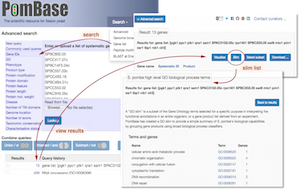
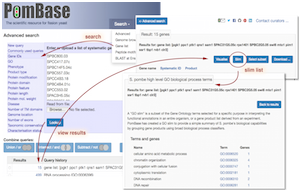
Update docs component

Changed region(s): [[0.0, 0.0, 1.0, 1.0], [0.42, 0.7105, 0.54, 0.7632]]

diff --git a/src/app/front-panel-content/front-panel-content.component.html b/src/app/front-panel-content/front-panel-content.component.html
@@ -119,7 +119,11 @@
 
 </div>
 <div *ngIf="panelId == 21">
-<p><app-recent-community-pubs></app-recent-community-pubs></p>
+<p>Systematic analysis reveals the prevalence and principles of bypassable gene essentiality.</p>
+
+
+
+<p>Originally published in <a href='https://www.nature.com/articles/s41467-019-08928-1'>Nature</a>.</p>
 
 </div>
 <div *ngIf="panelId == 22">
@@ -127,46 +131,50 @@
 
 </div>
 <div *ngIf="panelId == 23">
-<p>Browse PomBase's inventory of conserved proteins with no known biological role</p>
+<p><app-recent-community-pubs></app-recent-community-pubs></p>
 
 </div>
 <div *ngIf="panelId == 24">
-<p>The fission yeast <a routerLink="/browse-curation/fission-yeast-go-slim-terms">GO slim</a> provides a summary of genes annotated to broad biological processes</p>
+<p>Browse PomBase's inventory of conserved proteins with no known biological role</p>
 
 </div>
 <div *ngIf="panelId == 25">
-<p>Use the <a routerLink="/query">Advanced Search</a> to construct complex queries (GO, phenotypes, taxonomic distribution, domain, chromosomal location).</p>
+<p>The fission yeast <a routerLink="/browse-curation/fission-yeast-go-slim-terms">GO slim</a> provides a summary of genes annotated to broad biological processes</p>
 
 </div>
 <div *ngIf="panelId == 26">
-<p>PomBase has integrated over 200,000 manually curated gene-specific annotations. See our <a routerLink="/about/resource-metrics">Resource Metrics</a> page for more literature curation progress reports.</p>
+<p>Use the <a routerLink="/query">Advanced Search</a> to construct complex queries (GO, phenotypes, taxonomic distribution, domain, chromosomal location).</p>
 
 </div>
 <div *ngIf="panelId == 27">
-<p>PomBase uses manually curated Gene Ontology annotation to generate biological process-specific networks, such as the cytokinesis network excerpted above. Currently available networks are linked to the <a routerLink="/browse-curation/fission-yeast-go-slim-terms">GO slim</a> page.</p>
+<p>PomBase has integrated over 200,000 manually curated gene-specific annotations. See our <a routerLink="/about/resource-metrics">Resource Metrics</a> page for more literature curation progress reports.</p>
 
 </div>
 <div *ngIf="panelId == 28">
-<p>PomBase provides extensive documentation and answers many questions in the <a routerLink="/faq">FAQ</a>. For any information you can't find there, please <app-contact-email [linkName]="'contact the helpdesk'" [subject]="'PomBase question'"></app-contact-email>.</p>
+<p>PomBase uses manually curated Gene Ontology annotation to generate biological process-specific networks, such as the cytokinesis network excerpted above. Currently available networks are linked to the <a routerLink="/browse-curation/fission-yeast-go-slim-terms">GO slim</a> page.</p>
 
 </div>
 <div *ngIf="panelId == 29">
-<p>PomBase has pioneered a community curation system that enables researchers to contribute publication-based annotations directly to database curators. To participate, search for the PubMed ID of your paper <a href="https://curation.pombase.org/pombe">in Canto</a> or <app-contact-email [linkName]="'contact the helpdesk'" [subject]="'PomBase question'"></app-contact-email>.</p>
+<p>PomBase provides extensive documentation and answers many questions in the <a routerLink="/faq">FAQ</a>. For any information you can't find there, please <app-contact-email [linkName]="'contact the helpdesk'" [subject]="'PomBase question'"></app-contact-email>.</p>
 
 </div>
 <div *ngIf="panelId == 30">
-<p>The <a href="https://curation.pombase.org/cgi-bin/sanger_motif_search">Protein Motif Search Tool</a> finds any user-defined amino acid sequence. The search supports exact match queries, wildcards, gaps, and ambiguity codes.</p>
+<p>PomBase has pioneered a community curation system that enables researchers to contribute publication-based annotations directly to database curators. To participate, search for the PubMed ID of your paper <a href="https://curation.pombase.org/pombe">in Canto</a> or <app-contact-email [linkName]="'contact the helpdesk'" [subject]="'PomBase question'"></app-contact-email>.</p>
 
 </div>
 <div *ngIf="panelId == 31">
-<p>4020 of the 5070 fission yeast protein-coding genes now have assigned standard names. We encourage all authors and reviewers to ensure that gene names are registered prior to publication. Visit our <a routerLink="/gene-names">gene registry page</a> and the <a routerLink="/gene-names/gene-naming-guidelines"><em>S. pombe</em> gene naming guidelines</a> for more information.</p>
+<p>The <a href="https://curation.pombase.org/cgi-bin/sanger_motif_search">Protein Motif Search Tool</a> finds any user-defined amino acid sequence. The search supports exact match queries, wildcards, gaps, and ambiguity codes.</p>
 
 </div>
 <div *ngIf="panelId == 32">
-<p>Of the 3526 <em>S. pombe</em> with identified human orthologs, over 500 have been implicated in disease. These are manually annotated with terms from a small in-house vocabulary, and can be searched as described in the <a routerLink="/faq/how-can-i-find-s.-pombe-genes-associated-human-disease">disease gene FAQ</a>.</p>
+<p>4020 of the 5070 fission yeast protein-coding genes now have assigned standard names. We encourage all authors and reviewers to ensure that gene names are registered prior to publication. Visit our <a routerLink="/gene-names">gene registry page</a> and the <a routerLink="/gene-names/gene-naming-guidelines"><em>S. pombe</em> gene naming guidelines</a> for more information.</p>
 
 </div>
 <div *ngIf="panelId == 33">
+<p>Of the 3526 <em>S. pombe</em> with identified human orthologs, over 500 have been implicated in disease. These are manually annotated with terms from a small in-house vocabulary, and can be searched as described in the <a routerLink="/faq/how-can-i-find-s.-pombe-genes-associated-human-disease">disease gene FAQ</a>.</p>
+
+</div>
+<div *ngIf="panelId == 34">
 <p>A guide to getting the most from PomBase, and to its curation philosophy and data organization. <a href="https://link.springer.com/protocol/10.1007/978-1-4939-7737-6_4">Free download</a> thanks to the <a href="https://wellcome.ac.uk/">Wellcome Trust</a>.</p>
 
 
@@ -174,17 +182,21 @@
 <p><a href="https://link.springer.com/protocol/10.1007/978-1-4939-7737-6_4">View chapter ...</a></p>
 
 </div>
-<div *ngIf="panelId == 34">
+<div *ngIf="panelId == 35">
 <p>Unknown process now down to 696, <a routerLink="/gene_subset/characterisation_status_conserved_unknown">conserved unknowns 410</a>.</p>
 
 <p>Our &quot;Unknowns&quot; manuscript is now available on bioRxiv: <a href="https://www.biorxiv.org/content/early/2018/11/16/469569">DOI: 10.1101/469569</a>.</p>
 
 </div>
-<div *ngIf="panelId == 35">
+<div *ngIf="panelId == 36">
 <p><a routerLink="/term/DOID:4">Disease associations</a> are now provided for 907 pombe genes (up from 610), includes new associations derived from MalaCards. This number will increase as work is still in progress...</p>
 
 </div>
-<div *ngIf="panelId == 36">
+<div *ngIf="panelId == 37">
 <p>Our &quot;unknowns&quot; analysis is now published in <a href="https://royalsocietypublishing.org/doi/10.1098/rsob.180241">Open Biology</a>. You can browse the <a routerLink="/status/priority-unstudied-genes">list of fission yeast unknown proteins</a>, and use the &quot;Visualise&quot; button to explore the data interactively in QuiLT, the new tool inspired by <a href="https://royalsocietypublishing.org/doi/10.1098/rsob.180241#RSOB180241F4">Figure 4</a>.</p>
+
+</div>
+<div *ngIf="panelId == 38">
+<p>PomBase's advanced search now allows you to retrieve <a routerLink="/documentation/pombase-go-slim-documentation">GO slim</a> annotations for any set of search results. Combine with the &quot;Gene IDs&quot; query option to find GO slim annotations for your own list of genes.</p>
 
 </div>

diff --git a/src/app/documentation/docs/docs.component.html b/src/app/documentation/docs/docs.component.html
@@ -7847,6 +7847,7 @@ http://rest.ensemblgenomes.org/homology/id/SPAC2F7.03c?content-type=application/
 <div *ngIf="section == 'news'">
 <app-page-contents-menu title="News" titleRoute="/news">
 
+<div class="left-menu-part left-menu-item"><a simplePageScroll href="#go-slim-any-s.-pombe-gene-list">GO slim for any *S. pombe* gene list</a></div>
 <div class="left-menu-part left-menu-item"><a simplePageScroll href="#south-eastern-regional-yeast-meeting-serym-registration-open">South Eastern Regional Yeast Meeting (SERYM) - registration open</a></div>
 <div class="left-menu-part left-menu-item"><a simplePageScroll href="#international-cell-cycle-meeting-registration-open">International Cell Cycle meeting - registration open</a></div>
 <div class="left-menu-part left-menu-item"><a simplePageScroll href="#published-hidden-plain-sight-what-remains-be-discovered-eukaryotic-proteome">Published: Hidden in plain sight: What remains to be discovered in the eukaryotic proteome?</a></div>
@@ -8816,7 +8817,6 @@ Please sign the letter to add your voice in support of the databases that help m
   </div>
   <div *ngIf="pageName == 'improved-disease-association-dataset-released'">
 <h3 id="improved-disease-association-dataset-released">Improved disease association dataset released</h3>
-<!-- pombase_flags: frontpage -->
 <!-- newsfeed_thumbnail: human disease.png -->
 <p>We are pleased to announce the release of our improved human disease mappings dataset. This dataset connects human disease causing genes to their <em>S. pombe</em> orthologs.</p>
 <p>Diseases are now mapped to the Disease Ontology (DO) and the dataset has been extended by data from Malacards. All disease associations can be accessed from the <a routerLink="/term/DOID:4">top level disease page</a>. A disease slim has been created to facilitate browsing of disease categories. Currently, 907 S. pombe genes are associated with disease (up from 610 in the original dataset). This number is due to increase as mappings are still in progress.</p>
@@ -8864,9 +8864,24 @@ Please sign the letter to add your voice in support of the databases that help m
 <p>Icon: SERYM 2019</p>
 
   </div>
+  <div *ngIf="pageName == 'list-go-slim-tool'">
+<h3 id="go-slim-for-any-s.-pombe-gene-list">GO slim for any <em>S. pombe</em> gene list</h3>
+<!-- pombase_flags: frontpage -->
+<!-- newsfeed_thumbnail: slim_tiny.png -->
+<p>PomBase's advanced search now allows you to retrieve <a href="documentation/pombase-go-slim-documentation">GO slim</a> annotations for any set of search results. To find GO slim annotations for your own list of <em>S. pombe</em> genes, use the advanced search &quot;Gene IDs&quot; option, and then use the &quot;Slim&quot; button on the search results page.</p>
+<p>See the <a href="browse-curation/fission-yeast-go-slim-terms">fission yeast GO slim page</a> and the <a href="documentation/advanced-search">advanced search documentation</a> for more information.</p>
+
+  </div>
   <div *ngIf="pageName == 'index'">
 <h2 id="news-archive">News archive</h2>
 <div class="news-archive">
+<div class="news-item">
+<p><img class="newsfeed-thumbnail" src="/assets/newsfeed/slim_tiny.png"/></p>
+<h3 id="go-slim-any-s.-pombe-gene-list">GO slim for any <em>S. pombe</em> gene list</h3>
+<p><em>2019-03-05</em></p>
+<p>PomBase's advanced search now allows you to retrieve <a href="documentation/pombase-go-slim-documentation">GO slim</a> annotations for any set of search results. To find GO slim annotations for your own list of <em>S. pombe</em> genes, use the advanced search &quot;Gene IDs&quot; option, and then use the &quot;Slim&quot; button on the search results page.</p>
+<p>See the <a href="browse-curation/fission-yeast-go-slim-terms">fission yeast GO slim page</a> and the <a href="documentation/advanced-search">advanced search documentation</a> for more information.</p>
+</div>
 <div class="news-item">
 <p><img class="newsfeed-thumbnail" src="/assets/newsfeed/serym2019tiny.png"/></p>
 <h3 id="south-eastern-regional-yeast-meeting-serym-registration-open">South Eastern Regional Yeast Meeting (SERYM) - registration open</h3>

diff --git a/src/app/recent-news/recent-news.component.html b/src/app/recent-news/recent-news.component.html
@@ -1,5 +1,13 @@
 <div class="recent-news">
 <div class="news-item">
+<img class="newsfeed-thumbnail" src="/assets/newsfeed/slim_tiny.png"/>
+<h4 id="go-slim-for-any-s.-pombe-gene-list"><strong>GO slim for any <em>S. pombe</em> gene list</strong></h4>
+<p><em>2019-03-05</em></p>
+<p>PomBase's advanced search now allows you to retrieve <a href="documentation/pombase-go-slim-documentation">GO slim</a> annotations for any set of search results. To find GO slim annotations for your own list of <em>S. pombe</em> genes, use the advanced search &quot;Gene IDs&quot; option, and then use the &quot;Slim&quot; button on the search results page.</p>
+<p>See the <a href="browse-curation/fission-yeast-go-slim-terms">fission yeast GO slim page</a> and the <a href="documentation/advanced-search">advanced search documentation</a> for more information.</p>
+
+</div>
+<div class="news-item">
 <img class="newsfeed-thumbnail" src="/assets/newsfeed/serym2019tiny.png"/>
 <h4 id="south-eastern-regional-yeast-meeting-serym---registration-open"><strong>South Eastern Regional Yeast Meeting (SERYM) - registration open</strong></h4>
 <p><em>2019-03-04</em></p>
@@ -38,15 +46,6 @@
 <h4 id="val-wood-wins-biocuration-society-award"><strong>Val Wood wins Biocuration society award</strong></h4>
 <p><em>2019-02-12</em></p>
 <p>Congratulations to PomBase project leader Val Wood, who has received the 2019 Exceptional Contributions to Biocuration Award from the International Society for Biocuration. Read more at the <a href="https://www.biocuration.org/anne-morgat-and-val-wood-recipients-of-the-2019-biocuration-awards/">ISB site</a></p>
-
-</div>
-<div class="news-item">
-<img class="newsfeed-thumbnail" src="/assets/newsfeed/human disease.png"/>
-<h4 id="improved-disease-association-dataset-released"><strong>Improved disease association dataset released</strong></h4>
-<p><em>2019-01-09</em></p>
-<p>We are pleased to announce the release of our improved human disease mappings dataset. This dataset connects human disease causing genes to their <em>S. pombe</em> orthologs.</p>
-<p>Diseases are now mapped to the Disease Ontology (DO) and the dataset has been extended by data from Malacards. All disease associations can be accessed from the <a routerLink="/term/DOID:4">top level disease page</a>. A disease slim has been created to facilitate browsing of disease categories. Currently, 907 S. pombe genes are associated with disease (up from 610 in the original dataset). This number is due to increase as mappings are still in progress.</p>
-<p>Many thanks to DO and Malacards for help in improving this annotation set. Icon courtesy of <a href="https://pixabay.com/en/users/mcmurryjulie-2375405/">Julie McMurry</a>.</p>
 
 </div>
 
